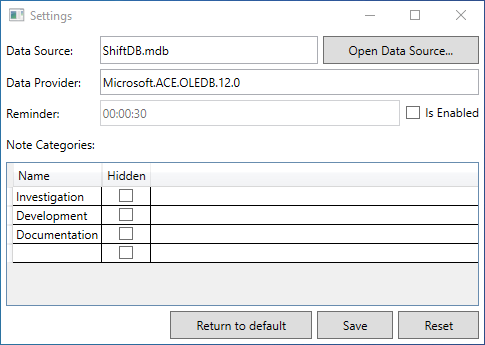
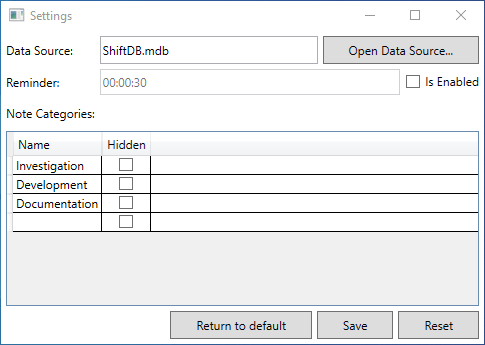
Remove Data Provider from Settings and from Settings window (#54)
### Description of issue

Need to remove `Data Provider` setting from config and `Settings` window
since it is not supposed to be changed by user

### Description of fix

- removed it from config
- removed it from `Settings` window
- corrected documentation

diff --git a/src/Idler/SettingsWindow.xaml b/src/Idler/SettingsWindow.xaml
@@ -14,8 +14,6 @@
             <RowDefinition Height="5"/>
             <RowDefinition Height="Auto"/>
             <RowDefinition Height="5"/>
-            <RowDefinition Height="Auto"/>
-            <RowDefinition Height="5"/>
             <RowDefinition Height="Auto" />
             <RowDefinition Height="5" />
             <RowDefinition />
@@ -34,14 +32,12 @@
             <TextBox x:Name="txtDataSource" VerticalContentAlignment="Center" Text="{Binding DataSource, UpdateSourceTrigger=PropertyChanged, Source={x:Static properties:Settings.Default}}" />
         </DockPanel>
 
-        <TextBlock Text="Data Provider:" Grid.Column="0" Grid.Row="2" VerticalAlignment="Center" Padding="0,5" />
-        <TextBox x:Name="txtDataProvider" Grid.Column="2" Grid.Row="2" VerticalContentAlignment="Center" Text="{Binding ProviderName, UpdateSourceTrigger=PropertyChanged, Source={x:Static properties:Settings.Default}}" />
         <TextBlock Text="Reminder:"
                    Grid.Column="0"
-                   Grid.Row="4"
+                   Grid.Row="2"
                    VerticalAlignment="Center"
                    Padding="0,5" />
-        <DockPanel Grid.Column="2" Grid.Row="4">
+        <DockPanel Grid.Column="2" Grid.Row="2">
             <CheckBox Content="Is Enabled"
                       VerticalAlignment="Center"
                       IsChecked="{Binding IsReminderEnabled, UpdateSourceTrigger=PropertyChanged, Source={x:Static properties:Settings.Default}}"
@@ -53,8 +49,8 @@
                      Text="{Binding ReminderInterval, UpdateSourceTrigger=PropertyChanged, Source={x:Static properties:Settings.Default}}" />
         </DockPanel>
 
-        <TextBlock Padding="0,5" Text="Note Categories:" DockPanel.Dock="Top" Grid.Row="6" Grid.Column="0"/>
-        <DataGrid Grid.Row="8" Grid.ColumnSpan="3" AutoGenerateColumns="False" ItemsSource="{Binding NoteCategories.Categories}">
+        <TextBlock Padding="0,5" Text="Note Categories:" DockPanel.Dock="Top" Grid.Row="4" Grid.Column="0"/>
+        <DataGrid Grid.Row="6" Grid.ColumnSpan="3" AutoGenerateColumns="False" ItemsSource="{Binding NoteCategories.Categories}">
             <DataGrid.Columns>
                 <DataGridTextColumn Header="Name" Binding="{Binding Name}" />
                 <DataGridCheckBoxColumn Header="Hidden" Binding="{Binding Hidden}" />
@@ -69,7 +65,7 @@
                 </Style>
             </DataGrid.RowStyle>
         </DataGrid>
-        <DockPanel Grid.Row="10" Grid.ColumnSpan="3" LastChildFill="False">
+        <DockPanel Grid.Row="8" Grid.ColumnSpan="3" LastChildFill="False">
             <Button x:Name="btnReset" Content="Reset" Padding="25,5" DockPanel.Dock="Right" Click="btnReset_Click" Height="28" VerticalAlignment="Bottom" />
             <Button x:Name="btnSave" Content="Save" Padding="25,5" DockPanel.Dock="Right" Margin="0,0,5,0" Click="btnSave_Click"/>
             <Button x:Name="btnDefault" Content="Return to default" Padding="25,5" DockPanel.Dock="Right" Margin="0,0,5,0" Click="btnDefault_Click"/>

diff --git a/src/Idler/Properties/Settings.Designer.cs b/src/Idler/Properties/Settings.Designer.cs
@@ -25,18 +25,6 @@ namespace Idler.Properties {
         
         [global::System.Configuration.UserScopedSettingAttribute()]
         [global::System.Diagnostics.DebuggerNonUserCodeAttribute()]
-        [global::System.Configuration.DefaultSettingValueAttribute("Microsoft.ACE.OLEDB.12.0")]
-        public string ProviderName {
-            get {
-                return ((string)(this["ProviderName"]));
-            }
-            set {
-                this["ProviderName"] = value;
-            }
-        }
-        
-        [global::System.Configuration.UserScopedSettingAttribute()]
-        [global::System.Diagnostics.DebuggerNonUserCodeAttribute()]
         [global::System.Configuration.DefaultSettingValueAttribute("ShiftDB.mdb")]
         public string DataSource {
             get {

diff --git a/src/Idler/Helpers/DB/DataBaseConnection.cs b/src/Idler/Helpers/DB/DataBaseConnection.cs
@@ -27,7 +27,7 @@ namespace Idler.Helpers.DB
 
             DataBaseConnection.connectionString = new OleDbConnectionStringBuilder()
             {
-                Provider = Settings.Default.ProviderName,
+                Provider = "Microsoft.ACE.OLEDB.12.0",
                 DataSource = Settings.Default.DataSource
             };
 

diff --git a/README.md b/README.md
@@ -37,7 +37,6 @@ And at last, you can find counter which shows you total effort for selected date
 In settings you can:
 
 - specify path to DataBase file
-- change DataProvider name (not recommended)
 - enable/disable reminders
 - set reminders interval
 - manage `Note Categories`
